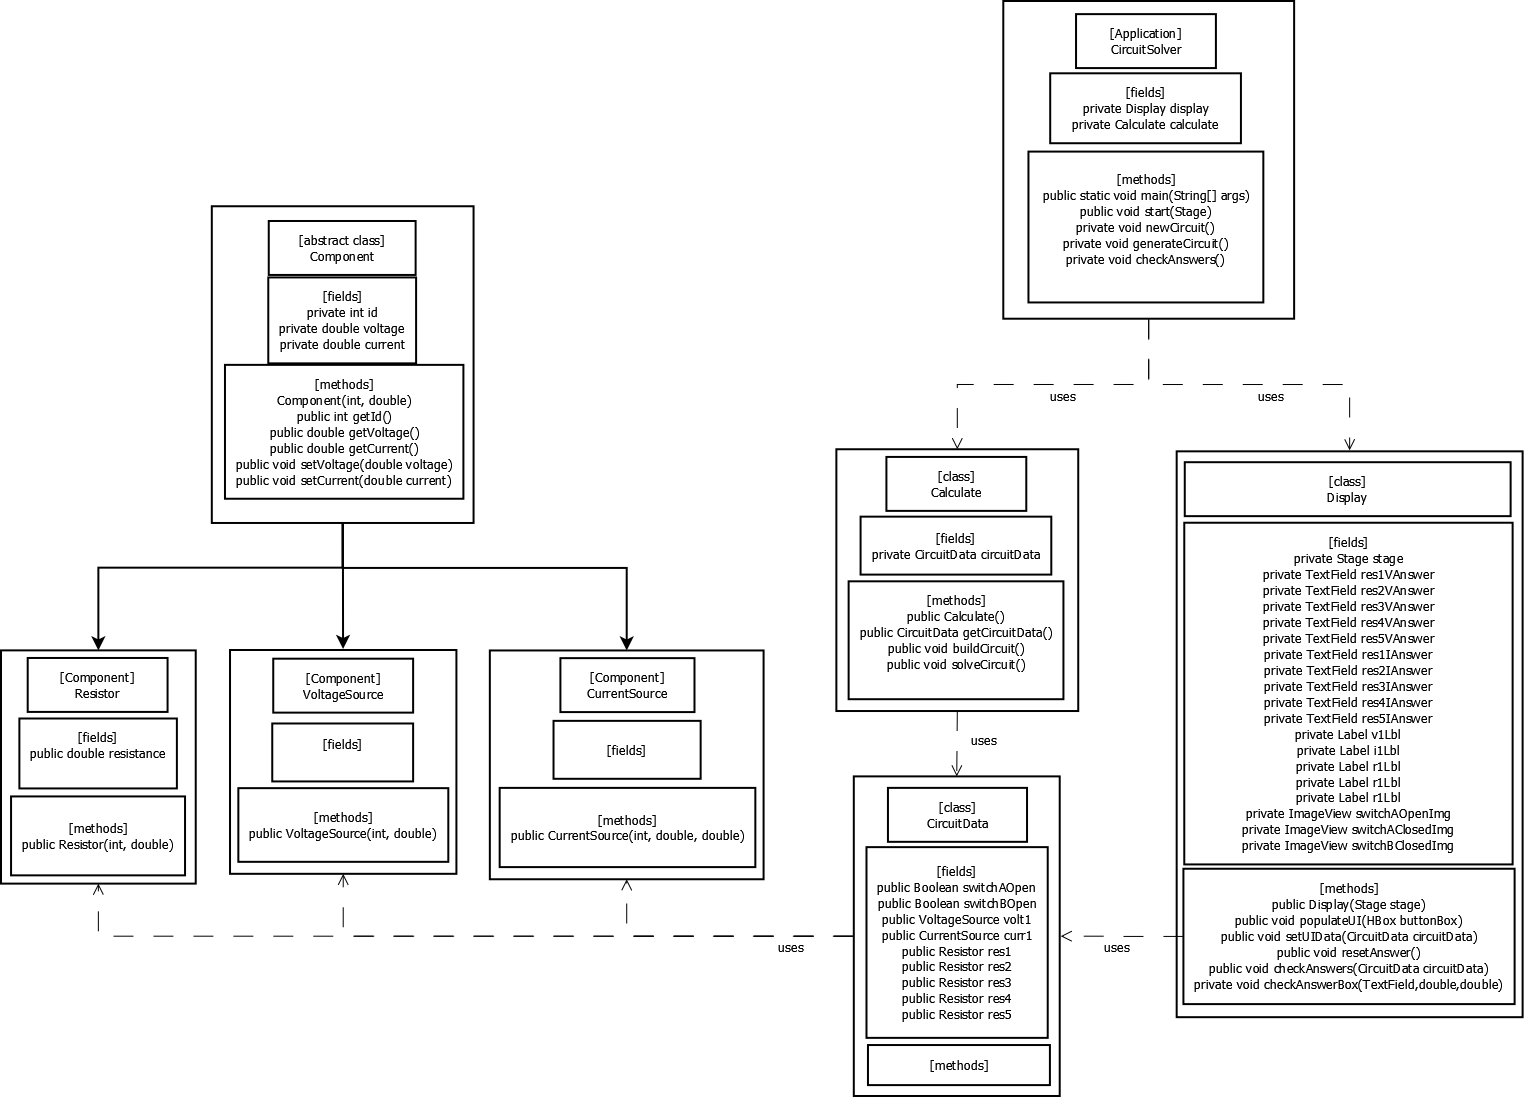
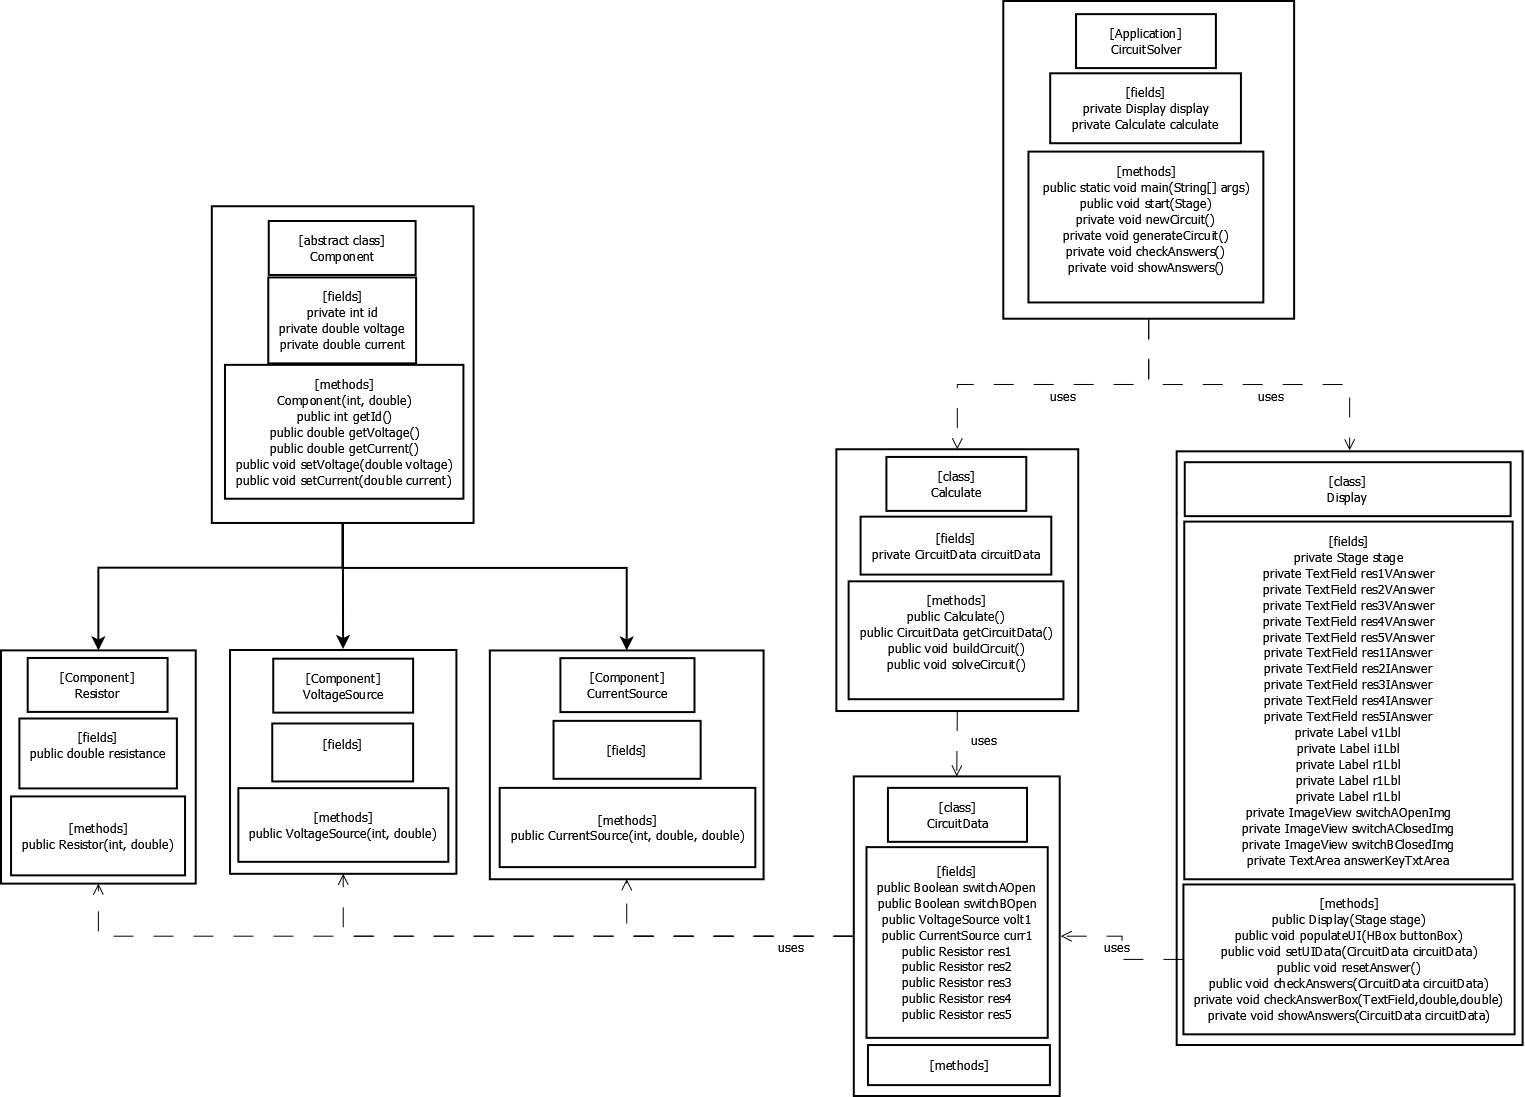
added answer key and updated readme

Changed region(s): [[0.7705, 0.4649, 1.0, 0.9608], [0.678, 0.155, 0.8321, 0.2479]]

diff --git a/src/main/java/CircuitSolver.java b/src/main/java/CircuitSolver.java
@@ -53,7 +53,9 @@ public class CircuitSolver extends Application {
         newBtn.setOnAction(e->newCircuit());
         Button checkAnswerBtn = new Button("Check Answers");
         checkAnswerBtn.setOnAction(e->checkAnswers());
-        buttonBox.getChildren().addAll(newBtn, checkAnswerBtn);
+        Button showAnswerBtn = new Button("Show Answer Key");
+        showAnswerBtn.setOnAction(e->showAnswers());
+        buttonBox.getChildren().addAll(newBtn, checkAnswerBtn, showAnswerBtn);
         
         // call on display to populate the GUI
         // this can fail if the required circuit images are not found
@@ -88,6 +90,11 @@ public class CircuitSolver extends Application {
 	private void checkAnswers() {
 		this.display.checkAnswers(calculate.getCircuitData());
 	}
+	
+	// calls on display to show the answer key
+	private void showAnswers() {
+		this.display.showAnswers(calculate.getCircuitData());
+	}
 }
 
 // A class for displaying on the GUI
@@ -115,6 +122,7 @@ class Display {
 	private ImageView switchAOpenImg = new ImageView();
 	private ImageView switchAClosedImg = new ImageView();
 	private ImageView switchBClosedImg = new ImageView();
+	private TextArea answerKeyTxtArea = new TextArea();
 	
 	public Display(Stage stage) {
 		this.stage = stage;
@@ -123,11 +131,12 @@ class Display {
 	// builds up the intial display 
 	public void populateUI(HBox buttonBox) throws FileNotFoundException {
 		int uiWidth = 1280;
-		int uiHeight = 550;
+		int uiHeight = 600;
 		
     	// build up the UI with controls
         Label titleTextLbl = new Label("CS&141 Final Project - Circuit Solver");
-        Label instructionLbl = new Label("Determine the voltage and current across each resistor");
+        Label instructionLbl = new Label("Determine the voltage and current across each resistor; " + 
+        		"answer must be within 2% to be considered correct");
         
         VBox titleBox = new VBox(10);
         titleBox.getChildren().addAll(titleTextLbl, instructionLbl);
@@ -209,9 +218,12 @@ class Display {
         circuitPane.getChildren().addAll(qna, v1Lbl, i1Lbl, 
         		r1Lbl, r2Lbl,r3Lbl,r4Lbl,r5Lbl, switchAOpenImg, switchAClosedImg, switchBClosedImg);
         
+        answerKeyTxtArea.setMaxSize(1000, 100);
+        answerKeyTxtArea.setVisible(false);
+        
         // this is the top left of the GUI, showing the name and intro
         VBox headerBox = new VBox(10);
-        headerBox.getChildren().addAll(titleBox, buttonBox, circuitPane);
+        headerBox.getChildren().addAll(titleBox, buttonBox, circuitPane, answerKeyTxtArea);
         headerBox.setPrefSize(Double.MAX_VALUE, Double.MAX_VALUE);
         
         StackPane stackPane = new StackPane();
@@ -260,6 +272,23 @@ class Display {
 		res4IAnswer.setText(null);
 		res5IAnswer.setStyle("-fx-border-color: gray;");
 		res5IAnswer.setText(null);
+		answerKeyTxtArea.setText(null);
+		answerKeyTxtArea.setVisible(false);
+	}
+	
+	// this is a last-minute addition to display the correct
+	// solution in an answer key
+	public void showAnswers(CircuitData circuitData) {
+    	String answerKeyText = "";
+
+    	answerKeyText += "r1: " + circuitData.res1.getVoltage() + "V; " + circuitData.res1.getCurrent() + "A\n";
+    	answerKeyText += "r2: " + circuitData.res2.getVoltage() + "V; " + circuitData.res2.getCurrent() + "A\n";
+    	answerKeyText += "r3: " + circuitData.res3.getVoltage() + "V; " + circuitData.res3.getCurrent() + "A\n";
+    	answerKeyText += "r4: " + circuitData.res4.getVoltage() + "V; " + circuitData.res4.getCurrent() + "A\n";
+    	answerKeyText += "r5: " + circuitData.res5.getVoltage() + "V; " + circuitData.res5.getCurrent() + "A\n";
+    	
+    	answerKeyTxtArea.setVisible(true);
+    	answerKeyTxtArea.setText(answerKeyText);
 	}
 	
 	// this takes in the values entered by the user on the GUI
@@ -415,7 +444,7 @@ class Calculate {
 			double r4r5Current = parallelVoltage/r4r5Series;
 			circuitData.res4.setCurrent(r4r5Current);
 			circuitData.res4.setVoltage(r4r5Current * circuitData.res4.resistance);
-			circuitData.res5.setCurrent(r4r5Current * circuitData.res5.resistance);
+			circuitData.res5.setCurrent(r4r5Current);
 			circuitData.res5.setVoltage(r4r5Current * circuitData.res5.resistance);
 		}
 		// this is the case where we have current source and no parallel path
@@ -464,18 +493,9 @@ class Calculate {
 			double r4r5Current = parallelVoltage/r4r5Series;
 			circuitData.res4.setCurrent(r4r5Current);
 			circuitData.res4.setVoltage(r4r5Current * circuitData.res4.resistance);
-			circuitData.res5.setCurrent(r4r5Current * circuitData.res5.resistance);
+			circuitData.res5.setCurrent(r4r5Current);
 			circuitData.res5.setVoltage(r4r5Current * circuitData.res5.resistance);
 		}
-		
-		// ~displays the solved circuit values~ 
-		// commented out, used for debugging but probably should be left in for future testing as well
-//		System.out.println("the solved circuit is: ");
-//		System.out.println("r1: " + circuitData.res1.getVoltage() + "V; " + circuitData.res1.getCurrent() + "A");
-//		System.out.println("r2: " + circuitData.res2.getVoltage() + "V; " + circuitData.res2.getCurrent() + "A");
-//		System.out.println("r3: " + circuitData.res3.getVoltage() + "V; " + circuitData.res3.getCurrent() + "A");
-//		System.out.println("r4: " + circuitData.res4.getVoltage() + "V; " + circuitData.res4.getCurrent() + "A");
-//		System.out.println("r5: " + circuitData.res5.getVoltage() + "V; " + circuitData.res5.getCurrent() + "A");
 	}
 }
 

diff --git a/README.MD b/README.MD
@@ -1,9 +1,20 @@
 CS141 Final Project
 Nicholas Novak
 
-For this project, I created a JavaFX program which generates and solves an electrical circuit according to a randomized template while hiding the answers from user. The user can utilize their knowledge of circuit behavior to determine the unknown values, and check to see if their answers are correct. The elements of this circuit include either a voltage source or a current source, and parallel paths of resistors. A couple switches in the circuit allow for some randomization, so that each circuit will be unique.
+This JavaFX program generates and solves an electrical circuit according to a randomized template while hiding the answers from user. The user can utilize their knowledge of circuit behavior to determine the unknown values, and check to see if their answers are correct. 
+
+The elements of this circuit include either a voltage source or a current source, and parallel paths of resistors. A couple switches in the circuit allow for some randomization, so that each circuit will be unique.
 
 The UI shows a depiction of the circuit with labels on each component that update with new values for each newly generated circuit, and switches which open or close which alter the path. The user will fill out a table of values for the voltage and current across each resistor and then press a 'Check Answers' button that outlines incorrect answers in red and correct answers in green. There is also another button to generate a new circuit, which will randomize the switches and component values.
+
+An answer key has been added; by pressing 'Show Answer Key' the system calculated values will be displayed in an answer key below the circuit.
+
+The flow is as follows:
+(1) User takes note of the possible current path and element values, and proceeds to calculate the voltage drop and current across each resistor
+(2) User enters their calculated values
+(3) User presses 'Check Answers' to see which values are correct (highlighted in green) and which are incorrect (highlighted in red)
+If necessary, the user can press the 'Show Answer Key' button to see the expected result
+(4) To test another configuration, the user can press 'New Circuit' and proceed back to step (1)
 
 github link:
 https://github.com/nnovak141/cs141_final_project
